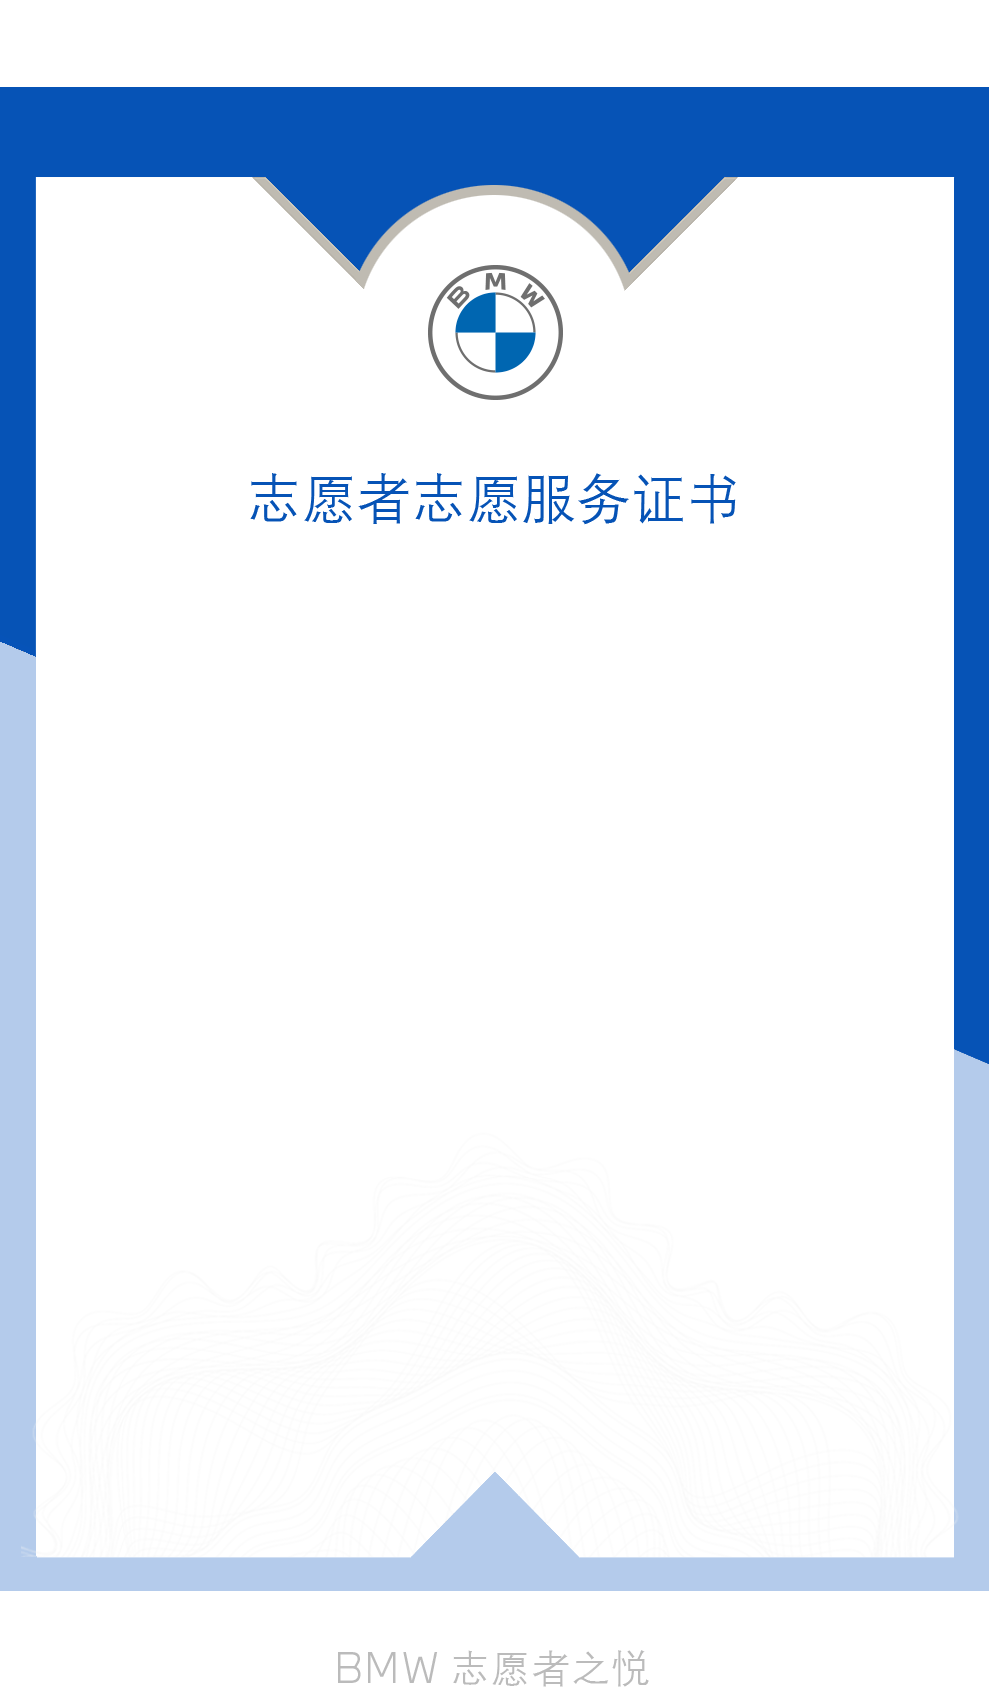
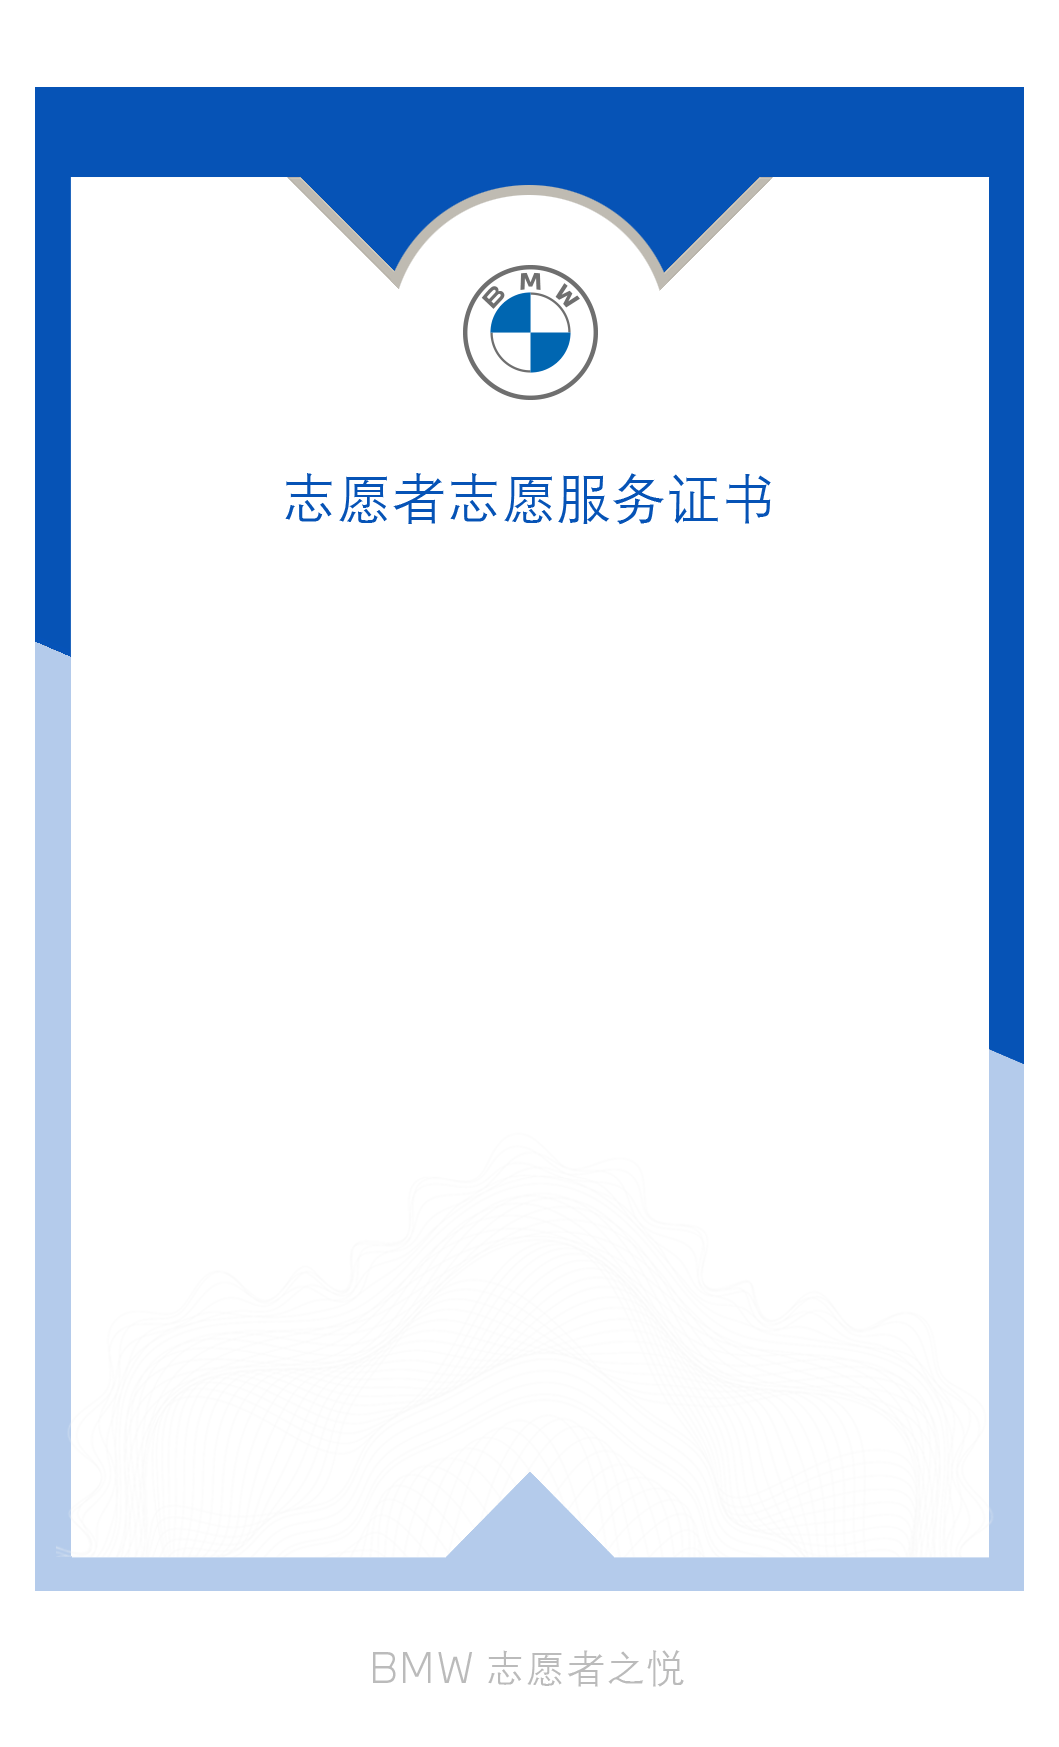
调整BMW证书UI布局

diff --git a/src/pages/my/register/entry.js b/src/pages/my/register/entry.js
@@ -10,7 +10,8 @@ import { ADMIN_HOST } from '../../../utils/config';
 import { requestUserInfo } from '../../../stores/common';
 import history from '../../history';
 import './entry.css';
-import {storeLoginSource} from '../login/login.store';
+import { storeLoginSource } from '../login/login.store';
+
 class Entry extends React.Component {
 
   constructor(props) {
@@ -19,8 +20,8 @@ class Entry extends React.Component {
   }
 
   componentWillMount() {
-    const {from}=this.props.login.login;
-    if(from){
+    const { from } = this.props.login.login;
+    if (from) {
       this.props.storeLoginSource(from)
     }
   }
@@ -32,9 +33,9 @@ class Entry extends React.Component {
   componentWillReceiveProps() {
   }
 
-  componentWillUnmount() {}
-  onLogin(){
-    window.location.href='/my/login';
+  componentWillUnmount() { }
+  onLogin() {
+    window.location.href = '/my/login';
     // history.replace('/my/login')
   }
   render() {
@@ -44,29 +45,29 @@ class Entry extends React.Component {
     }
 
     let personLoginRegisterClassName = "page-entry-person-btn";
-    
+
     return (
       <div className="page-entry">
-        <div className="page-entry-person" />
-          <a onClick={this.onLogin}>
-            <div className={personLoginRegisterClassName} />
-          </a>
+        <div className="page-entry-person"/>
+        <a onClick={this.onLogin}>
+          <div className={personLoginRegisterClassName} />
+        </a>
         <div className="page-line-box">
           <div className="line1px" style={{ width: '56px' }} />
-                <p className="page-fonts">OR</p>
+          <p className="page-fonts">OR</p>
           <div className="line1px" style={{ width: '56px' }} />
         </div>
         <div className="page-entry-team" />
         <div className="page-entry-team-box">
-          <a href={`${ADMIN_HOST}/login/${window.orgCode}`}>
+          <a href={`${ADMIN_HOST} /login/${window.orgCode}`}>
             <div className={loginRegisterClassName} />
           </a>
           <a href={`${ADMIN_HOST}/register/${window.orgCode}`}>
             <div className={loginRegisterClassName} />
           </a>
-        </div>
-       
-      </div>
+        </div >
+
+      </div >
     );
   }
 }
@@ -112,9 +113,9 @@ Entry.propTypes = {
 };
 
 export default connect(
-  state=> ({
+  state => ({
     user: state.user,
-    login:state.login,
+    login: state.login,
   }),
-  dispatch => bindActionCreators({requestUserInfo,storeLoginSource}, dispatch),
+  dispatch => bindActionCreators({ requestUserInfo, storeLoginSource }, dispatch),
 )(Entry);

diff --git a/src/pages/my/certificate/certificateBMW.css b/src/pages/my/certificate/certificateBMW.css
@@ -71,9 +71,9 @@
   line-height   : 19px;
   min-width     : 80px;
   height        : 19px;
-  font-weight   : 300;
+  font-weight   : 200;
   position      : absolute;
-  top           : 300px;
+  top           : 295px;
 }
 
 .page-certificate-container-star {
@@ -94,7 +94,10 @@
 .page-certificate-container-content-certnumber {
   width               : 100%;
   /* margin-top       : 11px; */
-  font-size           : 13px;
+  top                 : 8px;
+  left                : 10px;
+  font-size           : 10px;
+  line-height         : 10px;
   color               : #262626;
   letter-spacing      : 0;
   line-height         : 17px;
@@ -107,21 +110,21 @@
 }
 
 .page-certificate-container-content-avatar {
-  top     : 220px;
+  top     : 215px;
   position: absolute;
 }
 
 .page-certificate-container-content-register {
   width         : 100%;
-  font-size     : 14px;
+  font-size     : 10px;
   color         : #262626;
   letter-spacing: 0;
   line-height   : 38px;
-  font-weight   : 300;
+  font-weight   : 200;
   padding-left  : 15px;
   padding-right : 8px;
   text-align    : center;
-  top           : 330px;
+  top           : 325px;
   position      : absolute
 }
 
@@ -135,7 +138,7 @@
   /* padding-bottom : 106px; */
   /* border-bottom  : 1px solid #dddd; */
   position          : absolute;
-  top               : 368px;
+  top               : 358px;
 }
 
 .page-certificate-container-hours-item-number {
@@ -160,12 +163,14 @@
 .page-certificate-container-hours-item-subTitle {
   background   : #0653b6;
   color        : #fff !important;
-  padding      : 0px 5px;
+  padding      : 2px 5px;
   border-radius: 5px;
   line-height  : 14px;
-  font-size    : 11px;
+  font-size    : 10px;
+  font-weight  : 200;
   text-align   : center;
   margin       : 0 auto;
+  transform    : scale(0.7);
 }
 
 .page-certificate-container-hours-item-number span {
@@ -194,7 +199,7 @@
   justify-content: flex-end;
   width          : 82%;
   position       : absolute;
-  top            : 500px;
+  top            : 490px;
 }
 
 .page-certificate-container-bottom-infobox {

diff --git a/src/pages/my/certificate/certificateBMW.js b/src/pages/my/certificate/certificateBMW.js
@@ -193,7 +193,7 @@ class Certificate extends React.Component {
             </div>
           ) : null}
           <div className="page-certificate-container-content-register">
-            {this.state.register}注册成为宝马志愿者
+            <span className="bmw-typnextlight">{this.state.register}注册成为宝马志愿者</span>
           </div>
 
           <div className="page-certificate-container-hours-box">
@@ -202,7 +202,8 @@ class Certificate extends React.Component {
                 <span>{this.props.user.join_project_count}</span>
                 <div style={{
                   paddingTop: '24px',
-                  paddingLeft: '2px'
+                  paddingLeft: '2px',
+                  fontWeight: 200,
                 }}>个
                 </div>
               </div>
@@ -215,7 +216,8 @@ class Certificate extends React.Component {
                 <span>{`${this.props.user.reward_time}`.length > 5 ? `${this.props.user.reward_time}`.split('.')[0] : `${this.props.user.reward_time}`}</span>
                 <div style={{
                   paddingTop: '12px',
-                  paddingLeft: '2px'
+                  paddingLeft: '2px',
+                  fontWeight: 200,
                 }}>小<br />时
                 </div>
               </div>
@@ -233,7 +235,7 @@ class Certificate extends React.Component {
                 className="page-certificate-container-content"
                 style={{ paddingLeft: 0, paddingRight: 0, textAlign: "right" }}
               >
-                {this.state.now}
+                <span className="bmw-typnextlight">{this.state.now}</span>
               </div>
             </div>
           </div>
